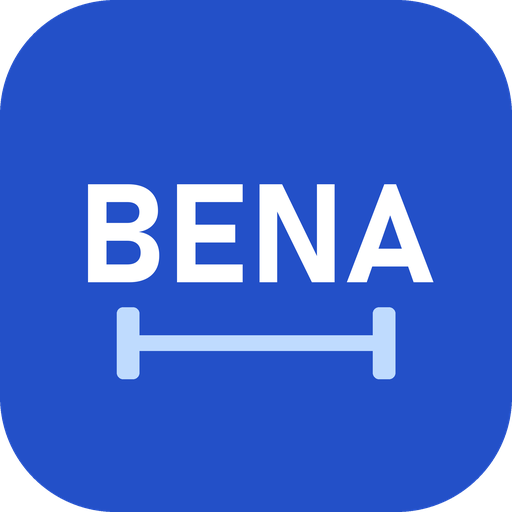
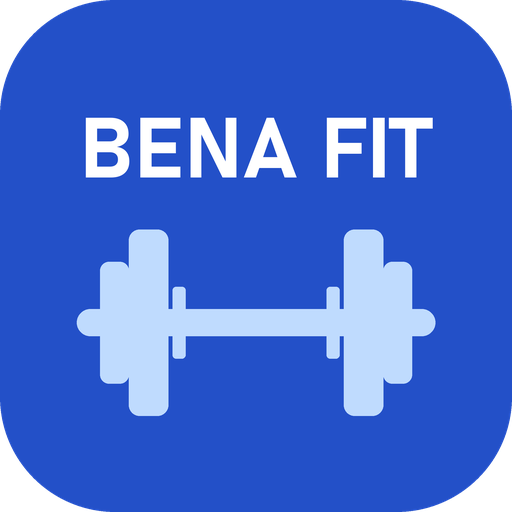
App heisst BENA Fit: neues Symbol mit deutlicher Hantel, Symbol in der Kopfzeile
- App-Symbol: "BENA FIT" mit klar erkennbarer Langhantel
- Name in Titel, Manifest, Seitenleiste und Begrüssung: BENA Fit
- Kleines App-Symbol oben in der Kopfzeile der Hauptseiten (nicht auf
  Unterseiten mit Zurück-Pfeil, nicht auf sehr schmalen Bildschirmen)

Changed region(s): [[0.125, 0.2188, 0.875, 0.8125]]

diff --git a/js/ui.js b/js/ui.js
@@ -98,9 +98,9 @@ export function parseNum(v) {
 }
 
 /** Kopfzeile: Titel, optionaler Zurück-Link und Aktionen (HTML). */
-export function setTop({ title = '', back = null, actions = '' } = {}) {
+export function setTop({ title = '', back = null, actions = '', logo = true } = {}) {
   const tb = document.getElementById('topbar');
-  tb.innerHTML = `${back ? `<a class="icon-btn" href="${back}" aria-label="Zurück">←</a>` : ''}
+  tb.innerHTML = `${back ? `<a class="icon-btn" href="${back}" aria-label="Zurück">←</a>` : logo ? '<img class="top-logo" src="icons/icon-192.png" alt="BENA Fit">' : ''}
     <div class="title">${esc(title)}</div>${actions}`;
 }
 

diff --git a/styles.css b/styles.css
@@ -346,3 +346,8 @@ h2 { font-size: 1rem; font-weight: 600; }
 .kpi .v { font-weight: 700; }
 .cal .c.today { outline-color: #f59e0b; }
 @media (min-width: 900px) { .topbar { background: var(--bg); color: var(--text); } .topbar .icon-btn { color: var(--text); } }
+
+/* App-Symbol in der Kopfzeile (nur auf Hauptseiten, auf dem PC steht es in der Seitenleiste) */
+.top-logo { width: 34px; height: 34px; border-radius: 9px; flex: 0 0 auto; box-shadow: 0 0 0 1.5px rgba(255,255,255,.55); }
+@media (max-width: 330px) { .top-logo { display: none; } }
+@media (min-width: 900px) { .top-logo { display: none; } }

diff --git a/js/views/welcome.js b/js/views/welcome.js
@@ -4,11 +4,11 @@ import { cloudConfigured } from '../config.js';
 
 export default {
   render(el) {
-    setTop({ title: '' });
+    setTop({ title: '', logo: false });
     el.innerHTML = `
       <div class="welcome">
         <img src="icons/icon-192.png" alt="">
-        <h1>Fitness-Tagebuch</h1>
+        <h1>BENA Fit</h1>
         <p class="muted">Geräte, Gewichte und Wiederholungen in Bellevue, Archhöfe und Win4 festhalten und die Fortschritte sehen.</p>
         <div class="stack">
           <button class="btn primary big block" data-m="demo">▶ Demo ausprobieren</button>

diff --git a/js/views/settings.js b/js/views/settings.js
@@ -68,7 +68,7 @@ export default {
           <li><span class="emoji">${icon('bell', 18)}</span><div class="grow"><b>Benachrichtigungen</b><div class="muted small">Wochenbilanz am Sonntag und Erinnerungen</div></div></li>
         </ul>
       </div>`}
-      <p class="muted small center">Fitness-Tagebuch · Version 0.6 (Etappen 1–6 vorbereitet)</p>`;
+      <p class="muted small center">BENA Fit · Version 0.7</p>`;
 
     el.querySelector('[data-save]').onclick = async () => {
       await saveProfile({ display_name: el.querySelector('[data-name]').value.trim() });

diff --git a/js/app.js b/js/app.js
@@ -64,7 +64,7 @@ export async function setMode(m, hash = '#/') {
 function renderNav(path) {
   const nav = document.getElementById('nav');
   nav.hidden = !mode;
-  nav.innerHTML = `<div class="brand"><img src="icons/icon-192.png" alt="">Fitness</div>` +
+  nav.innerHTML = `<div class="brand"><img src="icons/icon-192.png" alt="">BENA Fit</div>` +
     NAV.map(([href, ico, label, re]) => `<a href="${href}" class="${re.test(path) ? 'active' : ''}"><span class="ico">${icon(ico, 22)}</span>${label}</a>`).join('');
 }
 

diff --git a/index.html b/index.html
@@ -5,7 +5,7 @@
   <meta name="viewport" content="width=device-width, initial-scale=1, viewport-fit=cover">
   <meta name="theme-color" content="#2350c8">
   <meta name="description" content="Trainingstagebuch für Studios, Geräte, Körpergewicht und Fortschritt">
-  <title>Fitness-Tagebuch</title>
+  <title>BENA Fit</title>
   <link rel="manifest" href="manifest.webmanifest">
   <link rel="icon" href="icons/favicon.png">
   <link rel="apple-touch-icon" href="icons/apple-touch-icon.png">

diff --git a/js/views/home.js b/js/views/home.js
@@ -12,7 +12,7 @@ export default {
     const data = snapshot();
     const prof = profile();
     const r = rewards();
-    setTop({ title: prof.display_name ? `Hallo ${prof.display_name}` : 'Fitness-Tagebuch' });
+    setTop({ title: prof.display_name ? `Hallo ${prof.display_name}` : 'BENA Fit' });
 
     const exById = new Map(data.exercises.map(e => [e.id, e]));
     const sess = sessions(data.sets, exById);

diff --git a/sw.js b/sw.js
@@ -1,7 +1,7 @@
 // Service Worker: App läuft auch ohne Netz.
 // Eigene Dateien: zuerst Netz (damit Updates sofort ankommen), sonst Cache.
 // Bibliotheken vom CDN: zuerst Cache (Versionen sind fest).
-const CACHE = 'fitness-v10';
+const CACHE = 'fitness-v11';
 const SHELL = [
   './', 'index.html', 'styles.css', 'manifest.webmanifest',
   'icons/icon-192.png', 'icons/icon-512.png', 'icons/favicon.png',
